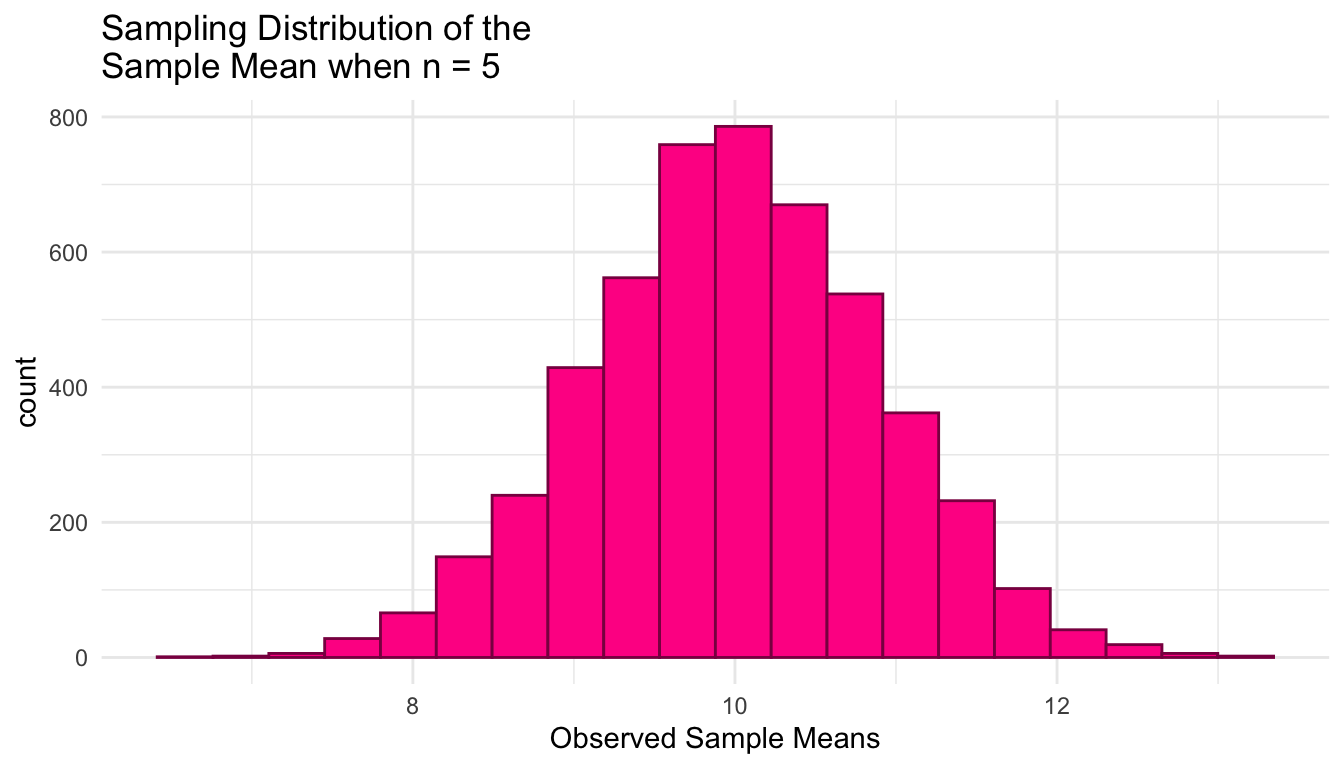
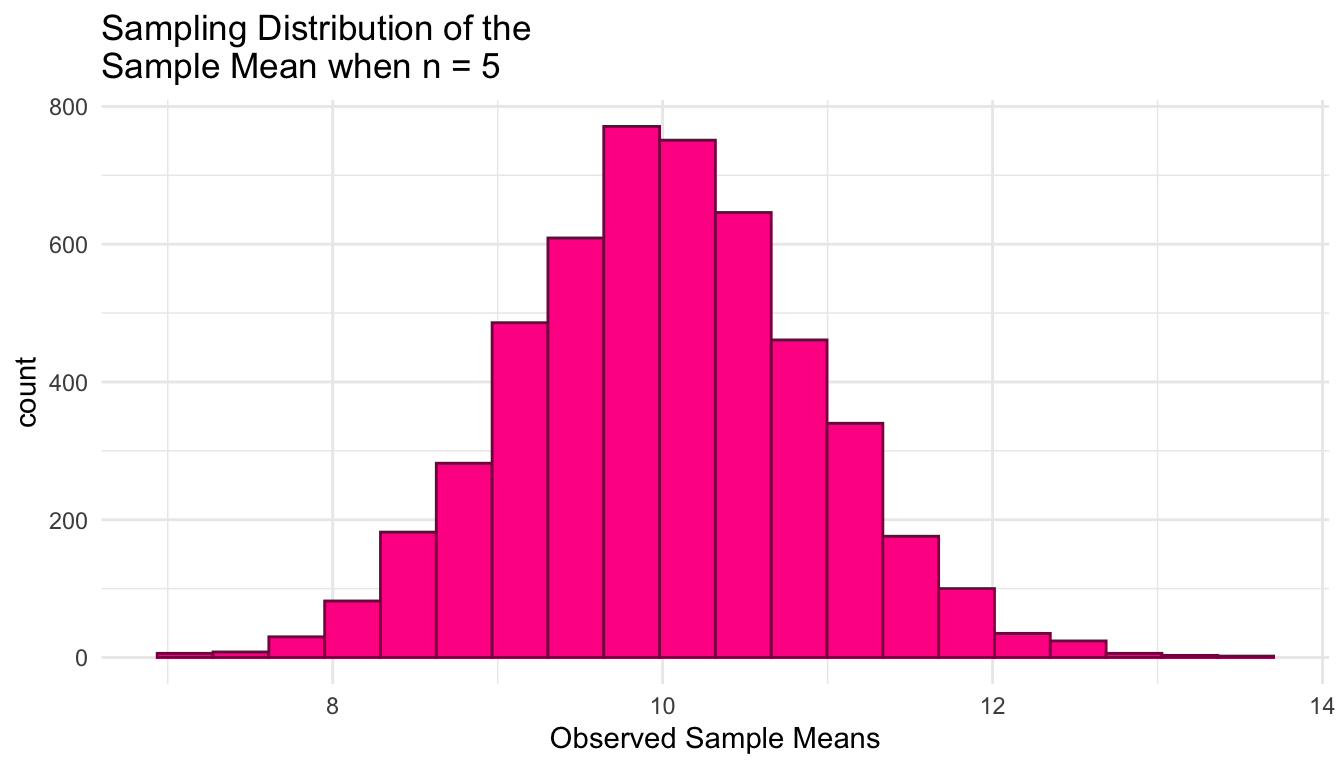
rendered home page.

diff --git a/docs/samp-dist.html b/docs/samp-dist.html
@@ -266,7 +266,7 @@ window.Quarto = {
 <span><span class="va">single_sample</span> <span class="op">&lt;-</span> <span class="fu"><a href="https://rdrr.io/r/stats/Normal.html">rnorm</a></span><span class="op">(</span><span class="va">n</span>, <span class="va">mu</span>, <span class="va">sigma</span><span class="op">)</span> <span class="op">|&gt;</span> <span class="fu"><a href="https://rdrr.io/r/base/Round.html">round</a></span><span class="op">(</span><span class="fl">2</span><span class="op">)</span></span>
 <span><span class="co"># look at the sample</span></span>
 <span><span class="va">single_sample</span> </span>
-<span><span class="co">#&gt; [1]  7.03  8.57  7.64 11.00 11.83</span></span></code><button title="Copy to Clipboard" class="code-copy-button"><i class="bi"></i></button></pre></div>
+<span><span class="co">#&gt; [1] 10.63  8.97  5.17 10.20  9.54</span></span></code><button title="Copy to Clipboard" class="code-copy-button"><i class="bi"></i></button></pre></div>
 </div>
 <p>Next, we compute the sample mean from this sample: this is our sample statistic we are interested in.</p>
 <div class="cell">
@@ -274,7 +274,7 @@ window.Quarto = {
 <span><span class="va">sample_mean</span> <span class="op">&lt;-</span> <span class="fu"><a href="https://rdrr.io/r/base/mean.html">mean</a></span><span class="op">(</span><span class="va">single_sample</span><span class="op">)</span></span>
 <span><span class="co"># look at the sample mean</span></span>
 <span><span class="va">sample_mean</span>     </span>
-<span><span class="co">#&gt; [1] 9.214</span></span></code><button title="Copy to Clipboard" class="code-copy-button"><i class="bi"></i></button></pre></div>
+<span><span class="co">#&gt; [1] 8.902</span></span></code><button title="Copy to Clipboard" class="code-copy-button"><i class="bi"></i></button></pre></div>
 </div>
 <p>Again, your sample mean should be different!</p>
 <p>Finally, we can make a plot of our single sample, along with where the sample mean lies.</p>
@@ -324,7 +324,7 @@ window.Quarto = {
 <span></span>
 <span><span class="co">## test function once:</span></span>
 <span><span class="fu">generate_normal_mean</span><span class="op">(</span>mu <span class="op">=</span> <span class="va">mu</span>, sigma <span class="op">=</span> <span class="va">sigma</span>, n <span class="op">=</span> <span class="va">n</span><span class="op">)</span></span>
-<span><span class="co">#&gt; [1] 9.90343</span></span></code><button title="Copy to Clipboard" class="code-copy-button"><i class="bi"></i></button></pre></div>
+<span><span class="co">#&gt; [1] 9.804759</span></span></code><button title="Copy to Clipboard" class="code-copy-button"><i class="bi"></i></button></pre></div>
 </div>
 <p>Next, to generate 5000 sample means, we map through the function:</p>
 <div class="cell">
@@ -342,12 +342,12 @@ window.Quarto = {
 <span><span class="co">#&gt; # A tibble: 5,000 × 1</span></span>
 <span><span class="co">#&gt;   means</span></span>
 <span><span class="co">#&gt;   &lt;dbl&gt;</span></span>
-<span><span class="co">#&gt; 1  8.86</span></span>
-<span><span class="co">#&gt; 2 10.2 </span></span>
-<span><span class="co">#&gt; 3  9.93</span></span>
-<span><span class="co">#&gt; 4 10.5 </span></span>
-<span><span class="co">#&gt; 5 10.5 </span></span>
-<span><span class="co">#&gt; 6 10.6 </span></span>
+<span><span class="co">#&gt; 1  9.46</span></span>
+<span><span class="co">#&gt; 2  9.69</span></span>
+<span><span class="co">#&gt; 3  9.76</span></span>
+<span><span class="co">#&gt; 4 11.9 </span></span>
+<span><span class="co">#&gt; 5 10.7 </span></span>
+<span><span class="co">#&gt; 6  8.72</span></span>
 <span><span class="co">#&gt; # ℹ 4,994 more rows</span></span></code><button title="Copy to Clipboard" class="code-copy-button"><i class="bi"></i></button></pre></div>
 </div>
 <p>Finally, we plot the 5000 sample means to see what our sampling distribution of the sample mean (for a sample size of 5) looks like.</p>
@@ -373,7 +373,7 @@ window.Quarto = {
 <span><span class="co">#&gt; # A tibble: 1 × 3</span></span>
 <span><span class="co">#&gt;   mean_samp_dist var_samp_dist sd_samp_dist</span></span>
 <span><span class="co">#&gt;            &lt;dbl&gt;         &lt;dbl&gt;        &lt;dbl&gt;</span></span>
-<span><span class="co">#&gt; 1           9.98         0.795        0.892</span></span></code><button title="Copy to Clipboard" class="code-copy-button"><i class="bi"></i></button></pre></div>
+<span><span class="co">#&gt; 1           9.98         0.816        0.904</span></span></code><button title="Copy to Clipboard" class="code-copy-button"><i class="bi"></i></button></pre></div>
 </div>
 <p>And, we can even obtain estimates of the probability that we observe a sample mean larger than 11 by <strong>calculating the proportion of our observed sample means that are larger than 11</strong>. We can use a similar strategy to estimate the probability that we observe a sample mean less than or equal to 9.5.</p>
 <div class="cell">
@@ -385,7 +385,7 @@ window.Quarto = {
 <span><span class="co">#&gt; # A tibble: 1 × 1</span></span>
 <span><span class="co">#&gt;   prob_more_than_11</span></span>
 <span><span class="co">#&gt;               &lt;dbl&gt;</span></span>
-<span><span class="co">#&gt; 1             0.124</span></span>
+<span><span class="co">#&gt; 1             0.128</span></span>
 <span></span>
 <span><span class="co"># What is the probability that we observe a sample mean less than or equal to 9.5?</span></span>
 <span><span class="va">means_df</span> <span class="op">|&gt;</span></span>
@@ -395,7 +395,7 @@ window.Quarto = {
 <span><span class="co">#&gt; # A tibble: 1 × 1</span></span>
 <span><span class="co">#&gt;   prob_less_9.5</span></span>
 <span><span class="co">#&gt;           &lt;dbl&gt;</span></span>
-<span><span class="co">#&gt; 1         0.296</span></span></code><button title="Copy to Clipboard" class="code-copy-button"><i class="bi"></i></button></pre></div>
+<span><span class="co">#&gt; 1         0.306</span></span></code><button title="Copy to Clipboard" class="code-copy-button"><i class="bi"></i></button></pre></div>
 </div>
 <p><strong>Exercise 1</strong>. Repeat the construction of the sampling distribution of the sample mean several times. How do the results change (or not)?</p>
 <p><strong>Exercise 2</strong>. Use the result from Stat 325 to report the theoretical distribution of the sample mean. Use this result to find <span class="math inline">\(P(\bar{Y}\leq 9.5)\)</span> and <span class="math inline">\(P(\bar{Y}&gt;11)\)</span> analytically.</p>
@@ -476,7 +476,7 @@ window.Quarto = {
 <span></span>
 <span><span class="co">## test function once:</span></span>
 <span><span class="fu">generate_exp_mean</span><span class="op">(</span>lambda <span class="op">=</span> <span class="va">lambda</span>, n <span class="op">=</span> <span class="va">n</span><span class="op">)</span></span>
-<span><span class="co">#&gt; [1] 1.144951</span></span>
+<span><span class="co">#&gt; [1] 2.833337</span></span>
 <span></span>
 <span><span class="va">nsim</span> <span class="op">&lt;-</span> <span class="fl">5000</span>      <span class="co"># number of simulations</span></span>
 <span></span>
@@ -489,12 +489,12 @@ window.Quarto = {
 <span><span class="co">#&gt; # A tibble: 5,000 × 1</span></span>
 <span><span class="co">#&gt;   means</span></span>
 <span><span class="co">#&gt;   &lt;dbl&gt;</span></span>
-<span><span class="co">#&gt; 1  1.84</span></span>
-<span><span class="co">#&gt; 2  2.74</span></span>
-<span><span class="co">#&gt; 3  1.24</span></span>
-<span><span class="co">#&gt; 4  2.92</span></span>
-<span><span class="co">#&gt; 5  1.75</span></span>
-<span><span class="co">#&gt; 6  2.17</span></span>
+<span><span class="co">#&gt; 1  2.15</span></span>
+<span><span class="co">#&gt; 2  2.90</span></span>
+<span><span class="co">#&gt; 3  1.97</span></span>
+<span><span class="co">#&gt; 4  1.87</span></span>
+<span><span class="co">#&gt; 5  1.80</span></span>
+<span><span class="co">#&gt; 6  1.60</span></span>
 <span><span class="co">#&gt; # ℹ 4,994 more rows</span></span>
 <span></span>
 <span><span class="fu"><a href="https://ggplot2.tidyverse.org/reference/ggplot.html">ggplot</a></span><span class="op">(</span>data <span class="op">=</span> <span class="va">means_df</span>, <span class="fu"><a href="https://ggplot2.tidyverse.org/reference/aes.html">aes</a></span><span class="op">(</span>x <span class="op">=</span> <span class="va">means</span><span class="op">)</span><span class="op">)</span> <span class="op">+</span></span>

diff --git a/docs/hyp-test.html b/docs/hyp-test.html
@@ -197,7 +197,7 @@ ul.task-list li input[type="checkbox"] {
 </section>
 <section id="mini-project-5-advantages-and-drawbacks-of-using-p-values" class="level2">
 <h2 class="anchored" data-anchor-id="mini-project-5-advantages-and-drawbacks-of-using-p-values">Mini Project 5: Advantages and Drawbacks of Using p-values</h2>
-<p>See article from <em>The American Statistician</em>.</p>
+<p>See article from <em>The American Statistician</em>. To make room for the bayesian project, perhaps move this to the final portfolio and cut the TAS part of the final portfolio.</p>
 
 
 </section>
